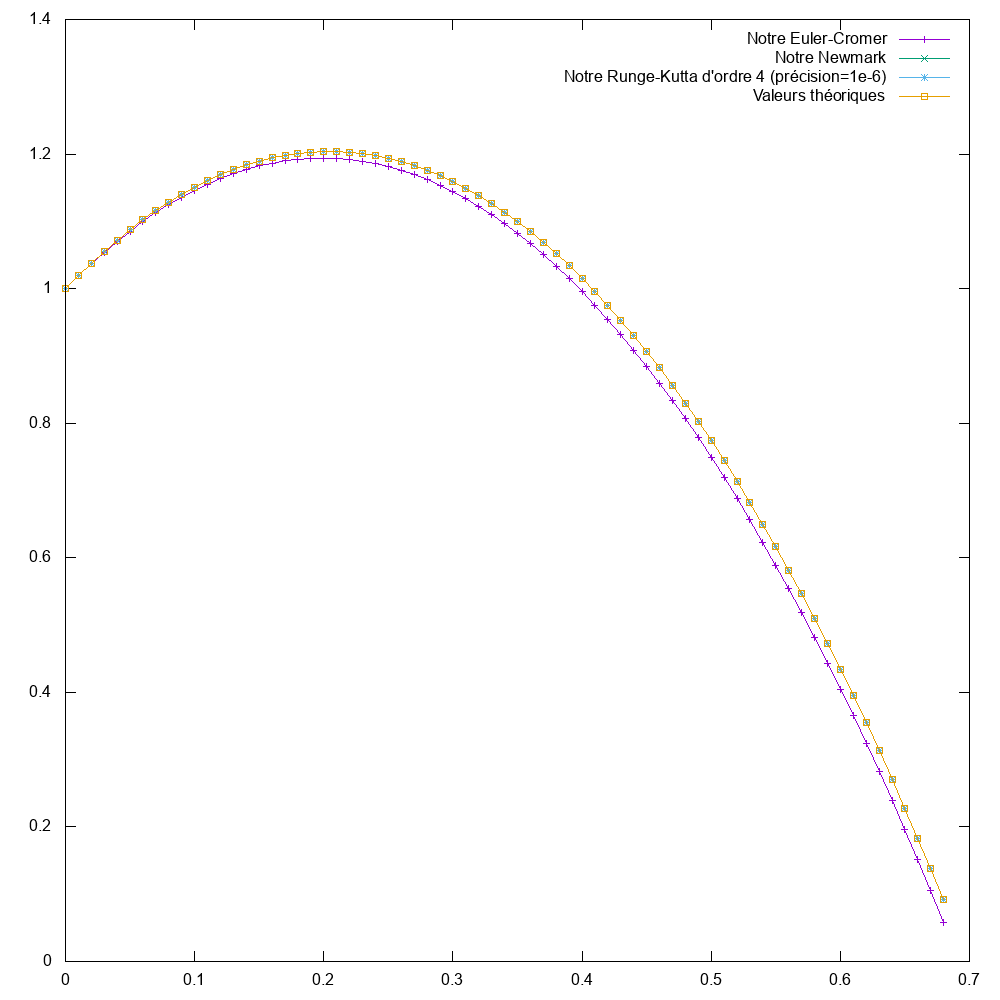
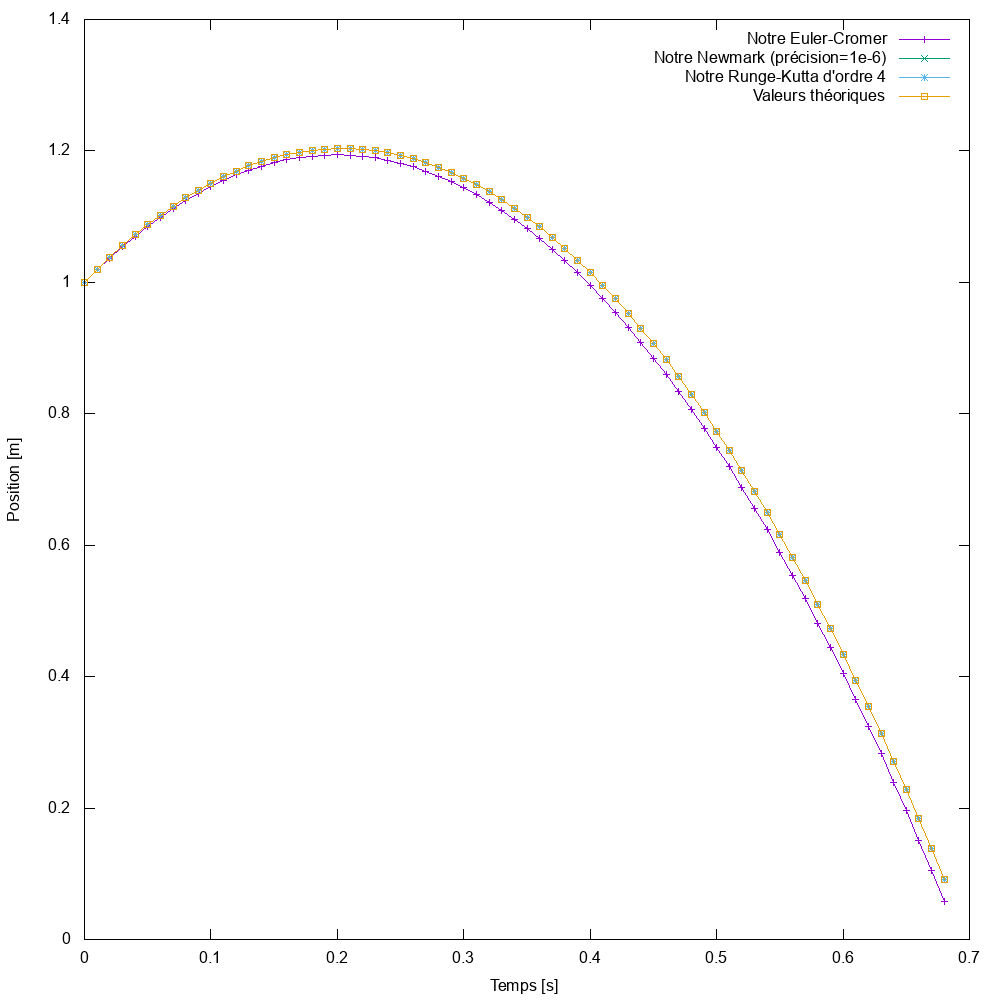
Added small analysis of integrators and the linked graph.

diff --git a/README.md b/README.md
@@ -99,6 +99,7 @@ EST-CE QUE LA TOUCHE "HOME" MARCHE VRAIMENT ?
 Nous avons effectué quelques petites analyse de nos différentes implémentations.
 #### 4.1 Les intégrateurs
 Nous avons implémentés les trois intégrateurs proposés. L'intégrateur d'Euler-Cromer, de Newmark, et de Runge-Kutta à l'ordre 4. Nous avons donc testé une chute libre de conditions initiales $\vec{P} = (0, 1)$ et $\dot{\vec{P}} = (1, 2)$. ![graphique comparant les différents intégrateurs](annexes/integr_comp.png)
-Remarque:
-* l'intégrateur de Newmark a une précision de 1e-6 dans cet exemple.
-* DIRE QQCH SUR LES AXES
+
+Nous remarquons que, effectivement, l'intégrateur d'Euler-Cromer est moins bon que les autres. Il est certes plus simple à implémenter, mais il est bien moins précis.
+
+De plus, nous notons que l'intégrateur de Newmark et l'intégrateur de Runge-Kutta d'ordre 4 ont quasiment la même précision ! Sur le graph, ils sont confondus.
